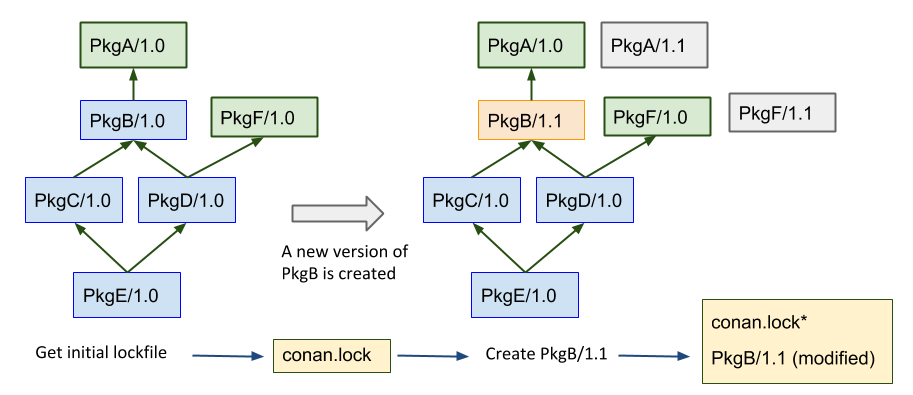
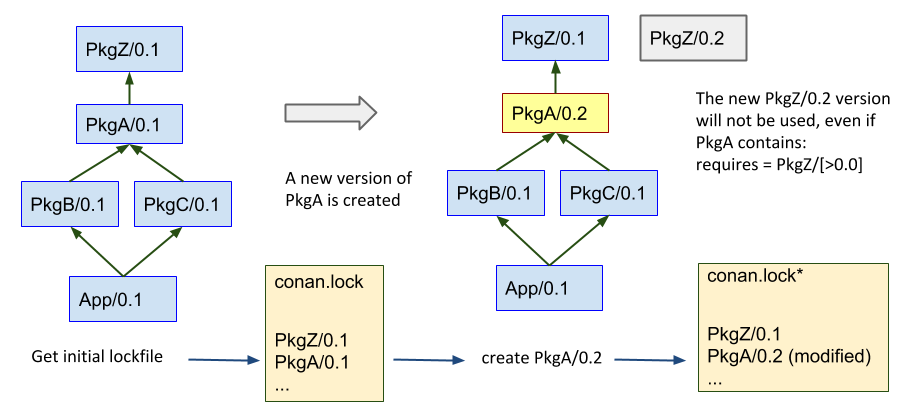
examples lockfiles ci (#1361)
* examples lockfiles ci

* review

diff --git a/versioning/lockfiles.rst b/versioning/lockfiles.rst
@@ -130,47 +130,153 @@ For more information see :ref:`commands`
 How to use lockfiles in CI
 --------------------------
 
-One of the applications of lockfiles is to be able to propagate changes done in one package
+.. note::
+
+    The code used in this section, including a *build.py* script to reproduce it, is in the
+    examples repository: https://github.com/conan-io/examples
+
+    .. code:: bash
+
+        $ git clone https://github.com/conan-io/examples.git
+        $ cd features/lockfiles/ci
+        $ python build.py 
+
+
+One of the applications of lockfiles is to be able to propagate changes in one package
 belonging to a dependency graph downstream its affected consumers.
 
-Let's say that we have the following scenario in which one developer does some changes to PkgB,
-creating a new version **PkgB/1.1**, and lets assume that all packages use version-ranges.
-The goal is to be able to build a new dependency graph down to **PkgE/1.0** in which only those
-changes done in **PkgB/1.1** are taken into account but not other new versions of other packages,
-like new versions of PkgA and PkgF.
+Lets say that we have the following project in which packages PkgA, PkgB, PkgC, PkgZ and App
+have already been created and only one version of each, the version 0.1 exists. All packages
+are using version ranges with a range like ``PkgZ/[>0.0]``, so basically they will resolve to
+any new version of their dependencies that it is published.
 
-The process can begin capturing a lockfile of the initial status of our "product", down to PkgE:
+Also, the ``full_version_mode`` will be defined for dependencies. This means that if the version
+number of one package dependencies change, then it will require a new binary. This assumption
+is reasonable, as PkgA, PkgZ are header only libraries and PkgB and PkgC are static libraries
+that inline functionality defined in PkgA and PkgZ. No matter what the changes in PkgA and PkgZ
+are in new versions, it will be necessary to build new binaries for the downstream consumers.
+
+.. code:: bash
+
+    $ conan config set general.default_package_id_mode=full_version_mode
+
+Now, some developer does some changes to PkgA, and do a pull request to the develop branch,
+and we want our CI to build the new binaries for the dependants packages, down to the final
+application App, to make sure that every works as expected.
+
+The process starts generating a *conan.lock* lockfile in the *release* subfolder:
 
 .. code-block:: bash
 
-    $ cd PkgE
-    $ conan graph lock .
+    $ conan graph lock App/0.1@user/testing --lockfile=release
 
-After that, we can proceed to build the new **PkgB/1.1** version, with its dependencies locked:
+This lockfile will contain the resolved dependencies in the graph, as we only have one version
+0.1 for all the packages, all of them will be locked to that 0.1 version.
 
-.. code-block:: bash
-
-    $ cd PkgB
-    $ cp ../PkgE/conan.lock . # Do a copy of the lockfile
-    $ conan create PkgB/1.1@user/testing --lockfile
-    # Now the lockfile has been modified, contains PkgB/1.1 instead of PkgB/1.0
 
 .. image:: ../images/lockfile_ci_1.png
 
+
+Once the lockfile has been generated, it doesn't matter if new, unrelated versions of other
+packages, like **PkgZ/0.2** is created with ``cd PkgZ && conan create . PkgZ/0.2@user/testing``
+
+Now we can safely create the new version of **PkgA/0.2**, that will resolve to use **PkgZ/0.1**
+instead of the latest 0.2, if we use the lockfile:
+
+.. code-block:: bash
+
+    cd PkgA && conan create . PkgA/0.2@user/testing --lockfile=../release
+    # lockfile in release/conan.lock is modified to contain PkgA/0.2
+
+Note that the lockfile is modified, to contain the new **PkgA/0.2** version.
+
 The next step is to know which dependants need to be built because they are affected by the new
-**PkgB/1.1** version:
+**PkgA/0.2** version:
 
 .. code-block:: bash
 
-    $ conan graph build-order . --build=missing
-    [[PkgC, PkgD], [PkgE]]  # simplified format
+    $ conan graph build-order ./release --json=bo.json --build=missing
+    [[PkgC, PkgD], [App]]  # simplified format
 
-This command will return a list of lists, in order, of those packages to be built. We take the
-first sub-list and each package can be rebuilt, making sure the lockfile is applied:
+This command will return a list of lists, in order, of those packages to be built. It will be
+stored in a *bo.json* json file too. Note that the ``--build=missing`` follows the same rules
+as :command:`create` and :command:`install` commands. The result of evaluating the graph with
+the **PkgA/0.2** version, due to the ``full_version_mode`` policy is that new binaries for
+PkgB, PkgC and App are necessary, and they do not exist yet. If we don't provide the ``--build=missing``
+it will return an empty list (but it will fail later, because binary packages are not available).
 
-.. code-block:: bash
+We can now proceed iteratively with the following procedure:
 
-    (EXAMPLE COMING SOON!)
 
+1. pop the first element of the first sublist of the build order result, get its ``ref`` reference
+
+    .. code:: python
+
+        # python
+        _, ref = build_order[0][0]
+        ref = ref.split("#", 1)[0]
+
+2. allocate some resource, like a CI build server, or create a temporary folder.
+
+    .. code:: bash
+
+        $ mkdir build_server_folder && mkdir build_server_folder/release
+
+3. copy the lockfile to that resource (and move to it)
+
+    .. code:: bash
+
+        $ cp release/conan.lock build_server_folder/release
+        $ cd build_server_folder
+
+4. clean "modified" nodes from the lockfile
+
+    .. code:: bash
+
+        $ conan graph clean-modified release/
+
+5. build the package
+
+    .. code:: bash
+
+        $ conan install <ref> --build=<ref> --lockfile=release
+
+6. go back to the parent, update the lockfile with the changes
+
+    .. code:: bash
+
+        $ cd ..
+        $ conan graph update-lock release build_server_folder/release
+        $ rm -rf build_server_folder
+
+7. compute again the build-order of packages, if not empty, goto 1
+
+    .. code-block:: bash
+
+        $ conan graph build-order ./release --json=bo.json --build=missing
+
+Note that this is a suboptimal approach, in order to explain the functionality, which
+is more easy to follow if it is sequential. In reality, the CI can take the first
+sublist output of :command:`conan graph build-order` and fire all its packages in parallel,
+because they are guaranteed to be independent. Then, as soon as they start finishing and
+build servers become available, the :command:`conan graph build-order` can be reevaluated,
+and new builds can be launched accordingly, just taking care of not re-launching the same
+build again. Note that the result of build-order contains a unique UUID, which is the identifier
+of the node in the graph, which could be useful to dissambiguate.
 
 .. image:: ../images/lockfile_ci_2.png
+
+With this later approach, a deterministic build with optimal Continuous Integration process
+with optimal utilization of resources and minimizing unnecessary rebuilds is achieved.
+
+Note that this example has been using incremental versions and version ranges.
+With package revisions it is also possible to achieve the same flow without bumping the versions and using fixed version dependencies:
+
+- It will not be necessary to change the recipes or even to inject the values in CI.
+  Every change in a recipe will produce a new different recipe revision.
+- Revisions are also locked in lockfiles.
+- As revisions are resolved by default to latest, and the conan cache can only hold
+  one revision, it might be necessary to pass ``--update`` argument so the correct revision is updated in the cache.
+- It is necessary to define the ``recipe_revision_mode`` or the ``package_revision_mode`` if we want to guarantee that the binaries correctly model the dependencies changes.
+
+For implementing this flow, it might be necessary to share the different ``conan.lock`` lockfiles among different machines, to pass them to build servers. A git repo could be used, but also an Artifactory generic repository could be very convenient for this purpose.

diff --git a/reference/commands/misc/graph.rst b/reference/commands/misc/graph.rst
@@ -24,5 +24,139 @@ Generates and manipulates lock files.
 
 
 
+conan graph update-lock
+-----------------------
 
---EXAMPLES COMING SOON--
+.. code-block:: bash
+
+    $ conan graph update-lock [-h] old_lockfile new_lockfile
+
+Updates the *old_lockfile* file with the contents of the *new_lockfiles*.
+
+.. code-block:: text
+
+  positional arguments:
+    old_lockfile  path to previous lockfile
+    new_lockfile  path to modified lockfile
+
+  optional arguments:
+    -h, --help    show this help message and exit
+
+
+Only the packages in *new_lockfile* marked as "modified" will be processed.
+If a node in *old_lockfile* is already modified and an incompatible (different
+binary ID, different revision) updated is attempted, it will raise an error.
+The updated nodes will keep the "modified" flag when updated in *old_lockfile*
+
+This command is useful for distributed or concurrent builds of different packages
+in the same dependency graph locked by the same lockfile. When one package is rebuilt
+it will modify the package reference, and will be marked as "modified". The way
+of integrating the information of package builds into the main lockfile is this command.
+
+Example:
+
+Integrate the information of building a "pkgb" package using a lockfile (and modified
+in the folder pkgb_temp) in the main lockfile:
+
+.. code-block:: bash
+
+    $ conan graph update-lock release/conan.lock pkgb_temp/release/conan.lock
+
+
+conan graph clean-modified
+--------------------------
+
+.. code-block:: bash
+
+    $ conan graph clean-modified [-h] lockfile
+
+Cleans all "modified" flags from the given lockfile.
+
+.. code-block:: text
+
+  positional arguments:
+    lockfile    lockfile folder
+
+  optional arguments:
+    -h, --help  show this help message and exit
+
+When a package of a dependency graph is going to be re-built, using a given lockfile,
+it is desired to finish the build knowing which packages of the graph have been
+actually rebuilt as a result of the last command. This command will clean all the
+previously existing "modified" flags before such build, so after the build 
+the "modified" are only those that have been built now.
+
+conan graph build-order
+-----------------------
+
+.. code-block:: bash
+
+  $ conan graph build-order [-h] [-b [BUILD]] [--json JSON] lockfile
+
+
+Given a lockfile, compute which packages and in which order they should be built,
+as mandated by the binary ID (``package_id()``) definitions and the ``--build`` argument,
+which is the same as :command:`conan create|install`
+
+.. code-block:: text
+
+  positional arguments:
+    lockfile              lockfile folder
+
+  optional arguments:
+    -h, --help            show this help message and exit
+    -b [BUILD], --build [BUILD]
+                          nodes to build
+    --json JSON           generate output file in json format
+
+
+The result is a list of lists, containing tuples. Each tuple contains 2 elements, the
+first is a UUID of the node of the graph. It is unique and ensures a way to address
+exactly one node, even if there are nodes with the same reference (it is possible for
+example to have different build_requires with the same name and version, but different
+configuration)
+
+
+conan graph lock
+----------------
+
+.. code-block:: bash
+
+    conan graph lock [-h] [-l LOCKFILE] [-b [BUILD]] [-e ENV] [-o OPTIONS]
+                            [-pr PROFILE] [-r REMOTE] [-s SETTINGS] [-u]
+                            path_or_reference
+
+.. code-block:: text
+
+    positional arguments:
+      path_or_reference     Path to a folder containing a recipe (conanfile.py or
+                            conanfile.txt) or to a recipe file. e.g.,
+                            ./my_project/conanfile.txt. It could also be a
+                            reference
+
+    optional arguments:
+      -h, --help            show this help message and exit
+      -l LOCKFILE, --lockfile LOCKFILE
+                            Path to lockfile to be created. If not specified
+                            'conan.lock' will be created in current folder
+      -b [BUILD], --build [BUILD]
+                            Packages to build from source
+      -e ENV, --env ENV     Environment variables that will be set during the
+                            package build, -e CXX=/usr/bin/clang++
+      -o OPTIONS, --options OPTIONS
+                            Define options values, e.g., -o Pkg:with_qt=true
+      -pr PROFILE, --profile PROFILE
+                            Apply the specified profile to the install command
+      -r REMOTE, --remote REMOTE
+                            Look in the specified remote server
+      -s SETTINGS, --settings SETTINGS
+                            Settings to build the package, overwriting the
+                            defaults. e.g., -s compiler=gcc
+      -u, --update          Check updates exist from upstream remotes
+
+
+This command is similar to :command:`conan install` or :command:`conan info`, but
+with a few differences:
+
+- It doesn't need to retrieve binaries, it will only compute what is necessary to do, according to the ``--build`` argument and rules
+- Even when ``--build`` values are specified, packages will not be built from sources. It will just compute, as a "dry-run" what would happen in an equivalent :command:`conan install`
